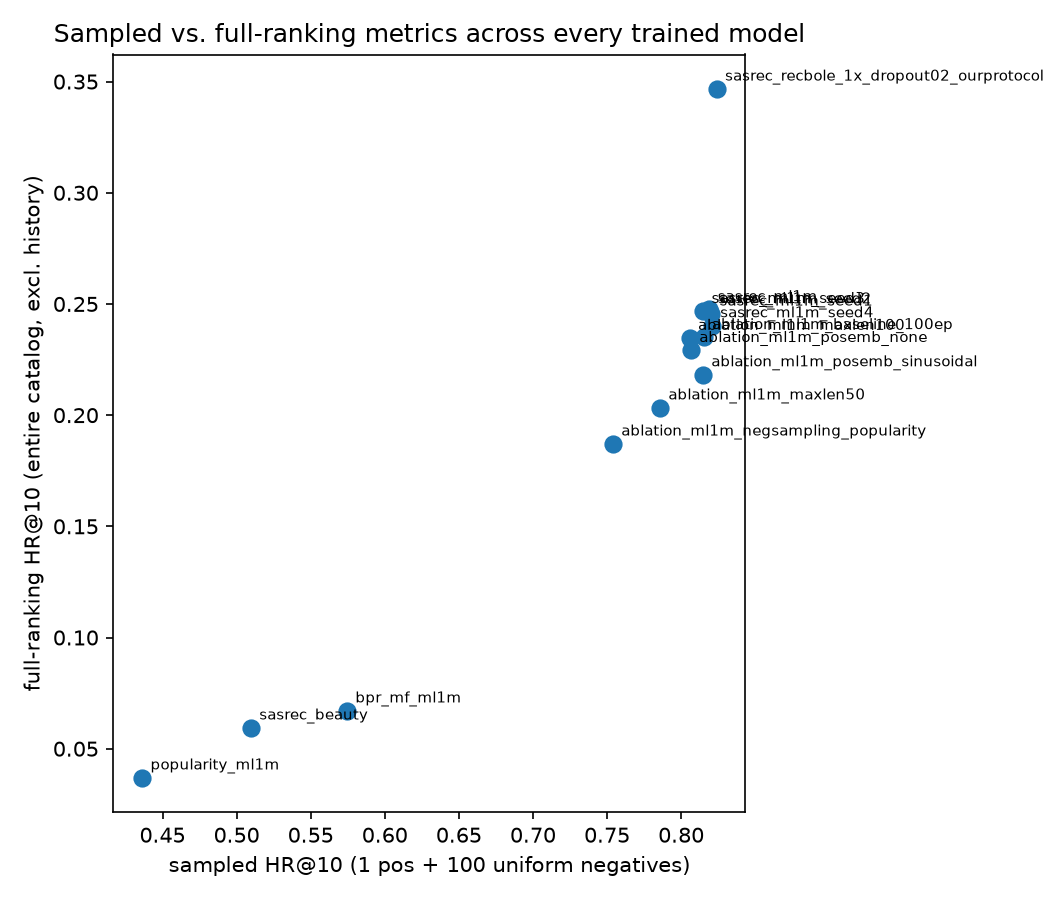
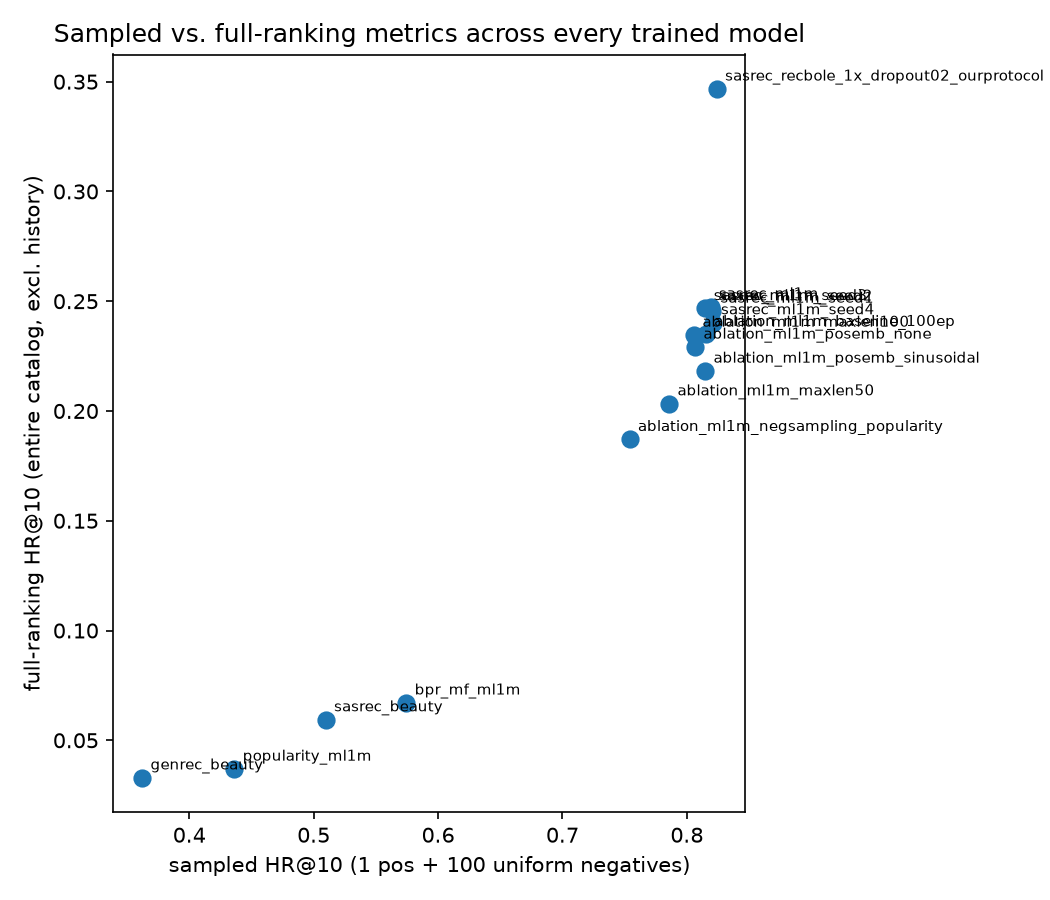
Week 5 result: the generative model loses, on an eighth of the parameters
Beauty, 200-epoch config, early stopped at 100, same frozen negatives and same
evaluator as every SASRec row.

                    sampled HR   sampled NDCG   full HR   full NDCG
  SASRec (atomic)       0.5097         0.3453    0.0594      0.0303
  GenRec (semantic)     0.3621         0.2235    0.0329      0.0168
                       -28.96%        -35.27%    -44.6%      -44.6%

Every margin is far outside the seed-noise floor, so this is signal.

Ruled out the one approximation the generative side carries before differencing
anything: full ranking comes from beam search, so an unreachable item is a miss.
Widening the beam 10 -> 200 moves full HR@10 from 0.0296 to 0.0327 and is flat
from 20 onward. Beam 20 is saturated; the gap is not a decoding artifact.
scripts/beam_sensitivity.py reproduces it.

The parameter count reframes the result. 12,101 item embeddings collapse into
782 token embeddings -- 774,528 -> 50,048, a 15.5x smaller table, 113,472 total
against 828,352. So the finding is not "semantic IDs are 29-45% worse" but
"semantic IDs give up 29% of sampled HR@10 on an eighth of the parameters", and
per parameter the comparison points the other way.

That capacity gap is a confound Week 6 has to name rather than remove: matching
parameter counts means crippling SASRec's item table or inflating GenRec's
hidden dim, and the compression *is* the method under test. Week 4's lesson in
reverse -- when the second variable is intrinsic to the treatment, state it.
[…]

diff --git a/scripts/beam_sensitivity.py b/scripts/beam_sensitivity.py
@@ -1,0 +1,101 @@
+"""How much of GenRec's full-ranking score is lost to the beam?
+
+The generative model ranks by constrained beam search, so an item the beam never
+reaches is a miss even if exhaustive scoring would have placed it top-10. That is
+an approximation the dot-product baselines do not carry, and differencing the two
+without bounding it would repeat Week 4's mistake in a new costume.
+
+This widens the beam and reports where the metric stops moving. If HR@10 is flat
+from beam 20 to beam 200, the beam is not what separates GenRec from SASRec.
+
+    uv run python -m scripts.beam_sensitivity --config configs/genrec_beauty.yaml
+"""
+
+import argparse
+import time
+from pathlib import Path
+
+import torch
+import yaml
+
+from src.eval.generative import evaluate_generative_full_ranking, make_sampled_score_fn
+from src.eval.sampled import evaluate_sampled, load_negatives
+from src.models.genrec import GenRec
+from src.semantic_ids.vocab import SemanticIdVocab
+from src.train import pick_device
+from src.utils import load_processed
+
+
+def main(config_path: str, beams: list[int], checkpoint: str | None) -> None:
+    with open(config_path) as f:
+        cfg = yaml.safe_load(f)
+
+    device = pick_device()
+    data_dir = Path(cfg["data_dir"])
+    train, valid, test, _ = load_processed(data_dir)
+    negatives = load_negatives(data_dir / "negatives.json")
+    vocab = SemanticIdVocab.from_data_dir(data_dir)
+
+    maxlen_items = cfg["model"]["maxlen"]
+    model = GenRec(
+        vocab_size=vocab.vocab_size,
+        n_levels=vocab.n_levels,
+        level_offsets=vocab.level_offsets,
+        level_sizes=vocab.level_sizes,
+        maxlen_items=maxlen_items,
+        hidden_dim=cfg["model"]["hidden_dim"],
+        num_blocks=cfg["model"]["num_blocks"],
+        num_heads=cfg["model"]["num_heads"],
+        dropout=cfg["model"]["dropout"],
+        pos_emb_type=cfg["model"].get("pos_emb_type", "learnable"),
+    ).to(device)
+
+    ckpt = checkpoint or f"results/checkpoints/{cfg['mlflow']['run_name']}.pt"
+    model.load_state_dict(torch.load(ckpt, map_location=device))
+    model.eval()
+    print(f"loaded {ckpt}")
+
+    k = cfg["eval"]["k"]
+    extra = {u: [valid[u]] for u in test}
+
+    sampled = evaluate_sampled(
+        make_sampled_score_fn(model, vocab, device),
+        train,
+        test,
+        negatives,
+        maxlen=maxlen_items,
+        extra_history=extra,
+        k=k,
+    )
+    print(f"\nsampled (beam-independent): HR@{k} {sampled[f'HR@{k}']:.4f} "
+          f"NDCG@{k} {sampled[f'NDCG@{k}']:.4f}")
+
+    print(f"\n| beam | full HR@{k} | full NDCG@{k} | sec |")
+    print("|---|---|---|---|")
+    for beam in beams:
+        start = time.time()
+        metrics = evaluate_generative_full_ranking(
+            model,
+            vocab,
+            train,
+            test,
+            maxlen_items=maxlen_items,
+            device=device,
+            extra_history=extra,
+            exclude_extra=extra,
+            k=k,
+            beam_size=beam,
+        )
+        print(
+            f"| {beam} | {metrics[f'HR@{k}']:.4f} | {metrics[f'NDCG@{k}']:.4f} | "
+            f"{time.time() - start:.0f} |"
+        )
+
+
+if __name__ == "__main__":
+    parser = argparse.ArgumentParser()
+    parser.add_argument("--config", type=str, default="configs/genrec_beauty.yaml")
+    parser.add_argument("--beams", type=int, nargs="+", default=[10, 20, 50, 100, 200])
+    parser.add_argument("--checkpoint", type=str, default=None)
+    args = parser.parse_args()
+    main(args.config, args.beams, args.checkpoint)

diff --git a/README.md b/README.md
@@ -10,7 +10,7 @@ Execution checklist: [`EXECUTION_PLAN.md`](EXECUTION_PLAN.md)
 Debugging trail: [`REPRODUCTION_LOG.md`](REPRODUCTION_LOG.md)
 BERT4Rec controversy analysis: [`docs/bert4rec-controversy.md`](docs/bert4rec-controversy.md)
 
-## Status: Week 3 done (M3 met) — Week 4 mostly done (M4 partially met) — Week 5 in progress (semantic IDs built)
+## Status: Week 3 done (M3 met) — Week 4 mostly done (M4 partially met) — Week 5 done (generative model trained; it loses to SASRec on Beauty)
 
 Week 4 ran four protocol-matched models at 200 epochs on ML-1M. The finding is not about
 either architecture: **BERT4Rec's win over SASRec on this dataset is a baseline-configuration
@@ -87,8 +87,36 @@ run — but it is the largest unexplained effect in the project.
 |---|---|---|---|
 | SASRec (paper reference, ~0.4854 ±2pp) | 0.4654–0.5054 | — | target |
 | **SASRec (this repo)** | **0.5097** | 0.3453 | ⚠ +0.43pp over the accepted band (see REPRODUCTION_LOG.md — reporting as-is rather than tuning to fit) |
+| GenRec (semantic IDs, same backbone) | 0.3621 | 0.2235 | −28.96% / −35.27% — see below |
 
-TIGER-style comparison pending Week 6.
+### Amazon Beauty: atomic vs. semantic IDs (Week 5 result, full comparison in Week 6)
+
+Same backbone, same protocol, same frozen negatives; the only variable is whether an item is
+one embedding or a sequence of four semantic tokens.
+
+| test, k=10 | sampled HR@10 | sampled NDCG@10 | full HR@10 | full NDCG@10 | parameters |
+|---|---|---|---|---|---|
+| SASRec (atomic) | **0.5097** | **0.3453** | **0.0594** | **0.0303** | 828,352 |
+| GenRec (semantic) | 0.3621 | 0.2235 | 0.0329 | 0.0168 | **113,472** |
+| relative | −28.96% | −35.27% | −44.6% | −44.6% | **13.7%** |
+
+**The generative model loses, and it is not a decoding artifact** — widening the beam from 20
+to 200 moves full HR@10 by 0.0002 (`uv run python -m scripts.beam_sensitivity`), and every
+margin is far outside the seed-noise floor.
+
+The parameter column is what makes this interesting rather than just negative. 12,101 item
+embeddings collapse into 782 token embeddings — a 15.5x smaller table — so GenRec gives up
+29% of sampled HR@10 while running on an eighth of the parameters. That capacity gap cannot be
+controlled away: matching parameter counts would mean crippling SASRec's item table or
+inflating GenRec's hidden dimension, and the compression *is* the method under test. It gets
+stated rather than eliminated.
+
+Unconstrained greedy decoding is legal 81.8% of the time after training (32.8% after two
+epochs), so constrained decoding is doing real work — without the Trie, nearly one in five of
+the model's first-choice recommendations would not be an item that exists.
+
+Cold-start bucketing — where semantic IDs are supposed to pay off, and where an overall loss
+does not preclude a tail win — is Week 6.
 
 ### Ablations (ML-1M, test set, k=10 — **all rows at 100 epochs**, see REPRODUCTION_LOG.md)
 
@@ -233,6 +261,11 @@ reporting negative/mixed results rather than hiding them.
   (it previously did not — see the note under that table), but the results are still a
   statement about 100-epoch training. A4's popularity-negatives result in particular may be a
   convergence-speed effect rather than a final ranking.
+- **GenRec's full-ranking numbers come from beam search, SASRec's from exhaustive scoring.**
+  Beam width 20 is saturated (200 recovers nothing), so the two are comparable in practice,
+  but they are not the same procedure and the generative side can only lose from it.
+- **The atomic-vs-semantic comparison is not parameter-matched**, and cannot be — see the
+  Beauty comparison table. GenRec runs on 13.7% of SASRec's parameters by construction.
 - **Seed variance is measured for this repo's SASRec only.** The 0.96% / 3.37% floors come
   from five seeds of one model on ML-1M and are applied to RecBole runs and Beauty results as
   a proxy. Those are different models, frameworks, and datasets; the floors are indicative

diff --git a/REPRODUCTION_LOG.md b/REPRODUCTION_LOG.md
@@ -751,3 +751,76 @@ cold-start bucket analysis.
 
 ---
 
+## Week 5 (cont.) — the first generative result, and it is a loss
+
+**2026-08-10**
+
+200-epoch config, early stopped at epoch 100 (patience 20), 37.7 s/epoch on laptop MPS.
+Same frozen `negatives.json`, same evaluator, same leave-one-out split as every SASRec row.
+
+| Amazon Beauty, test, k=10 | sampled HR | sampled NDCG | full HR | full NDCG |
+|---|---|---|---|---|
+| SASRec (atomic IDs, this repo) | **0.5097** | **0.3453** | **0.0594** | **0.0303** |
+| GenRec (semantic IDs, same backbone) | 0.3621 | 0.2235 | 0.0329 | 0.0168 |
+| relative | −28.96% | −35.27% | −44.6% | −44.6% |
+
+Nowhere near the seed-noise floor (0.96% sampled / 3.37% full), so this is signal, not
+variance. Reported as measured.
+
+### Ruling out the beam first
+
+Full ranking is the one number carrying an approximation the baselines do not have — an item
+the beam never reaches is a miss. Before differencing anything, that had to be bounded:
+
+| beam | full HR@10 | full NDCG@10 | sec |
+|---|---|---|---|
+| 10 | 0.0296 | 0.0157 | 13 |
+| 20 | **0.0329** | **0.0168** | 17 |
+| 50 | 0.0327 | 0.0168 | 38 |
+| 100 | 0.0328 | 0.0169 | 74 |
+| 200 | 0.0327 | 0.0168 | 143 |
+
+Flat from 20 to 200 — a 10x wider beam recovers nothing. Beam 10 is genuinely too narrow
+(seen-item filtering eats into the list), 20 is saturated. The gap to SASRec is not a decoding
+artifact. `scripts/beam_sensitivity.py` reproduces this.
+
+### The number that reframes the result
+
+| | SASRec | GenRec |
+|---|---|---|
+| item / token table | 774,528 | 50,048 |
+| everything else | 53,824 | 63,424 |
+| **total** | **828,352** | **113,472** |
+
+GenRec runs on **13.7% of the parameters**, because 12,101 item embeddings collapse into 782
+token embeddings — a 15.5x smaller table. So the honest statement is not "semantic IDs are
+28-45% worse". It is "semantic IDs lose 29% of sampled HR@10 and 45% of full HR@10 while
+using an eighth of the parameters", and the per-parameter comparison points the other way.
+
+This is also a confound the Week 6 headline has to name out loud, because it cannot be
+controlled away: matching parameter counts would mean either crippling SASRec's item table or
+inflating GenRec's hidden dimension, and neither is the method being tested. The compression
+*is* the method. Week 4's lesson applies in reverse here — the second variable is intrinsic,
+so it gets stated rather than eliminated.
+
+### Candidate explanations, none tested yet
+
+- **Beauty's 11.78% collision rate.** For ~1 item in 8, the only thing distinguishing it from
+  a catalogue neighbour is a disambiguation token carrying no content signal at all. The model
+  cannot learn to emit that token from content, only from co-occurrence.
+- **Capacity**, as above.
+- **Four sequential decisions instead of one.** An item is only retrieved if all four codes
+  are right; errors compound along the levels. Worth measuring per-level accuracy in Week 6.
+
+### Greedy legality: the Trie stays load-bearing
+
+Unconstrained greedy decoding was legal 32.8% of the time after 2 epochs and **81.8%** after
+100. So the model does learn the code manifold — but nearly 1 in 5 of its unconstrained
+first choices is still not an item. Constrained decoding is doing real work, not tidying up.
+
+**Next:** Week 6 — the atomic-vs-semantic comparison table, cold-start bucketing (where the
+semantic ID story is supposed to pay off, and where an overall loss does not preclude a
+tail win), and per-level decode accuracy to test the error-compounding explanation.
+
+---
+

diff --git a/results/tables/master.md b/results/tables/master.md
@@ -12,6 +12,7 @@ Generated from MLflow (`sqlite:///mlflow.db`, experiment `sequential-rec`) via `
 | ablation_ml1m_posemb_sinusoidal         | ml-1m         |      200 | sinusoidal     |                |               6.9149 |         100.0000 |          0.8147 |            0.5763 |       0.2182 |         0.1134 |
 | bert4rec_recbole_1x                     | ml-1m         |          |                |                |             104.1169 |         200.0000 |          0.8031 |            0.6036 |     nan      |       nan      |
 | bpr_mf_ml1m                             | ml-1m         |          |                |                |             nan      |         nan      |          0.5745 |            0.3357 |       0.0671 |         0.0333 |
+| genrec_beauty                           | amazon-beauty |       50 |                |                |              37.7224 |         100.0000 |          0.3621 |            0.2235 |       0.0329 |         0.0168 |
 | popularity_ml1m                         | ml-1m         |          |                |                |             nan      |         nan      |          0.4363 |            0.2401 |       0.0369 |         0.0180 |
 | sasrec_beauty                           | amazon-beauty |       50 |                |                |             nan      |         nan      |          0.5097 |            0.3453 |       0.0594 |         0.0303 |
 | sasrec_ml1m                             | ml-1m         |      200 |                |                |             nan      |         nan      |          0.8190 |            0.5948 |       0.2475 |         0.1322 |
